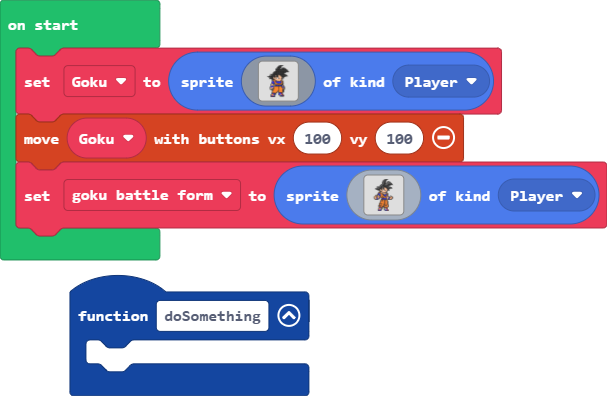
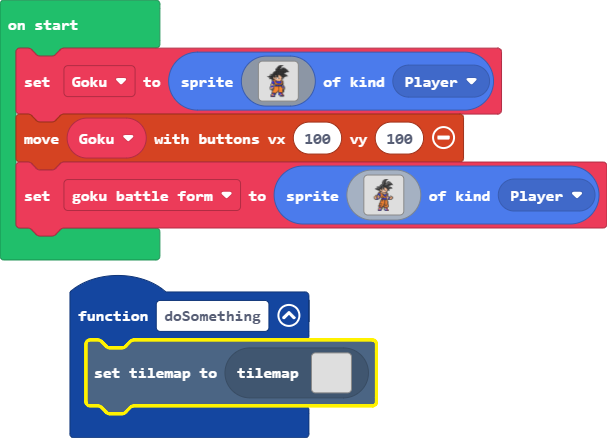
Update main.blocks, main.ts, tilemap.g.jres, tilemap.g.ts

diff --git a/tilemap.g.ts b/tilemap.g.ts
@@ -2,10 +2,58 @@
 namespace myTiles {
     //% fixedInstance jres blockIdentity=images._tile
     export const transparency16 = image.ofBuffer(hex``);
+    //% fixedInstance jres blockIdentity=images._tile
+    export const tile1 = image.ofBuffer(hex``);
+
+    helpers._registerFactory("tilemap", function(name: string) {
+        switch(helpers.stringTrim(name)) {
+            case "level1":
+            case "level1":return tiles.createTilemap(hex`1000100000000000000000000000000000000000000000000000000000000000000000000000000000000000000000000000000000000000000000000000000000000000000000000000000000000000000000000000000000000000000000000000000000000000000000000000000000000000000000000000000000000000000000000000000000000000000000000000000000000000000000000000000000000000000000000000000000000000000000000000000000000000000000000000000000000000000000000000000000000000000000000000000000000000000000000000000000000000000000000000000000000000000000000000000000000000`, img`
+. . . . . . . . . . . . . . . . 
+. . . . . . . . . . . . . . . . 
+. . . . . . . . . . . . . . . . 
+. . . . . . . . . . . . . . . . 
+. . . . . . . . . . . . . . . . 
+. . . . . . . . . . . . . . . . 
+. . . . . . . . . . . . . . . . 
+. . . . . . . . . . . . . . . . 
+. . . . . . . . . . . . . . . . 
+. . . . . . . . . . . . . . . . 
+. . . . . . . . . . . . . . . . 
+. . . . . . . . . . . . . . . . 
+. . . . . . . . . . . . . . . . 
+. . . . . . . . . . . . . . . . 
+. . . . . . . . . . . . . . . . 
+. . . . . . . . . . . . . . . . 
+`, [myTiles.transparency16], TileScale.Sixteen);
+            case "level2":
+            case "level2":return tiles.createTilemap(hex`1000100000000000000000000000000000000000000000000000000000000000000000000000000000000000000000000000000000000000000000000000000000000000000000000000000000000000000000000000000000000000000000000000000000000000000000000000000000000000000000000000000000000000000000000000000000000000000000000000000000000000000000000000000000000000000000000000000000000000000000000000000000000000000000000000000000000000000000000000000000000000000000000000000000000000000000000000000000000000000000000000000000000000000000000000000000000000`, img`
+. . . . . . . . . . . . . . . . 
+. . . . . . . . . . . . . . . . 
+. . . . . . . . . . . . . . . . 
+. . . . . . . . . . . . . . . . 
+. . . . . . . . . . . . . . . . 
+. . . . . . . . . . . . . . . . 
+. . . . . . . . . . . . . . . . 
+. . . . . . . . . . . . . . . . 
+. . . . . . . . . . . . . . . . 
+. . . . . . . . . . . . . . . . 
+. . . . . . . . . . . . . . . . 
+. . . . . . . . . . . . . . . . 
+. . . . . . . . . . . . . . . . 
+. . . . . . . . . . . . . . . . 
+. . . . . . . . . . . . . . . . 
+. . . . . . . . . . . . . . . . 
+`, [myTiles.transparency16,myTiles.tile1], TileScale.Sixteen);
+        }
+        return null;
+    })
 
     helpers._registerFactory("tile", function(name: string) {
         switch(helpers.stringTrim(name)) {
             case "transparency16":return transparency16;
+            case "myTile":
+            case "tile1":return tile1;
         }
         return null;
     })

diff --git a/main.ts b/main.ts
@@ -1,5 +1,5 @@
 function doSomething () {
-	
+    tiles.setCurrentTilemap(tilemap`level2`)
 }
 let Goku = sprites.create(assets.image`goku`, SpriteKind.Player)
 controller.moveSprite(Goku, 100, 100)
